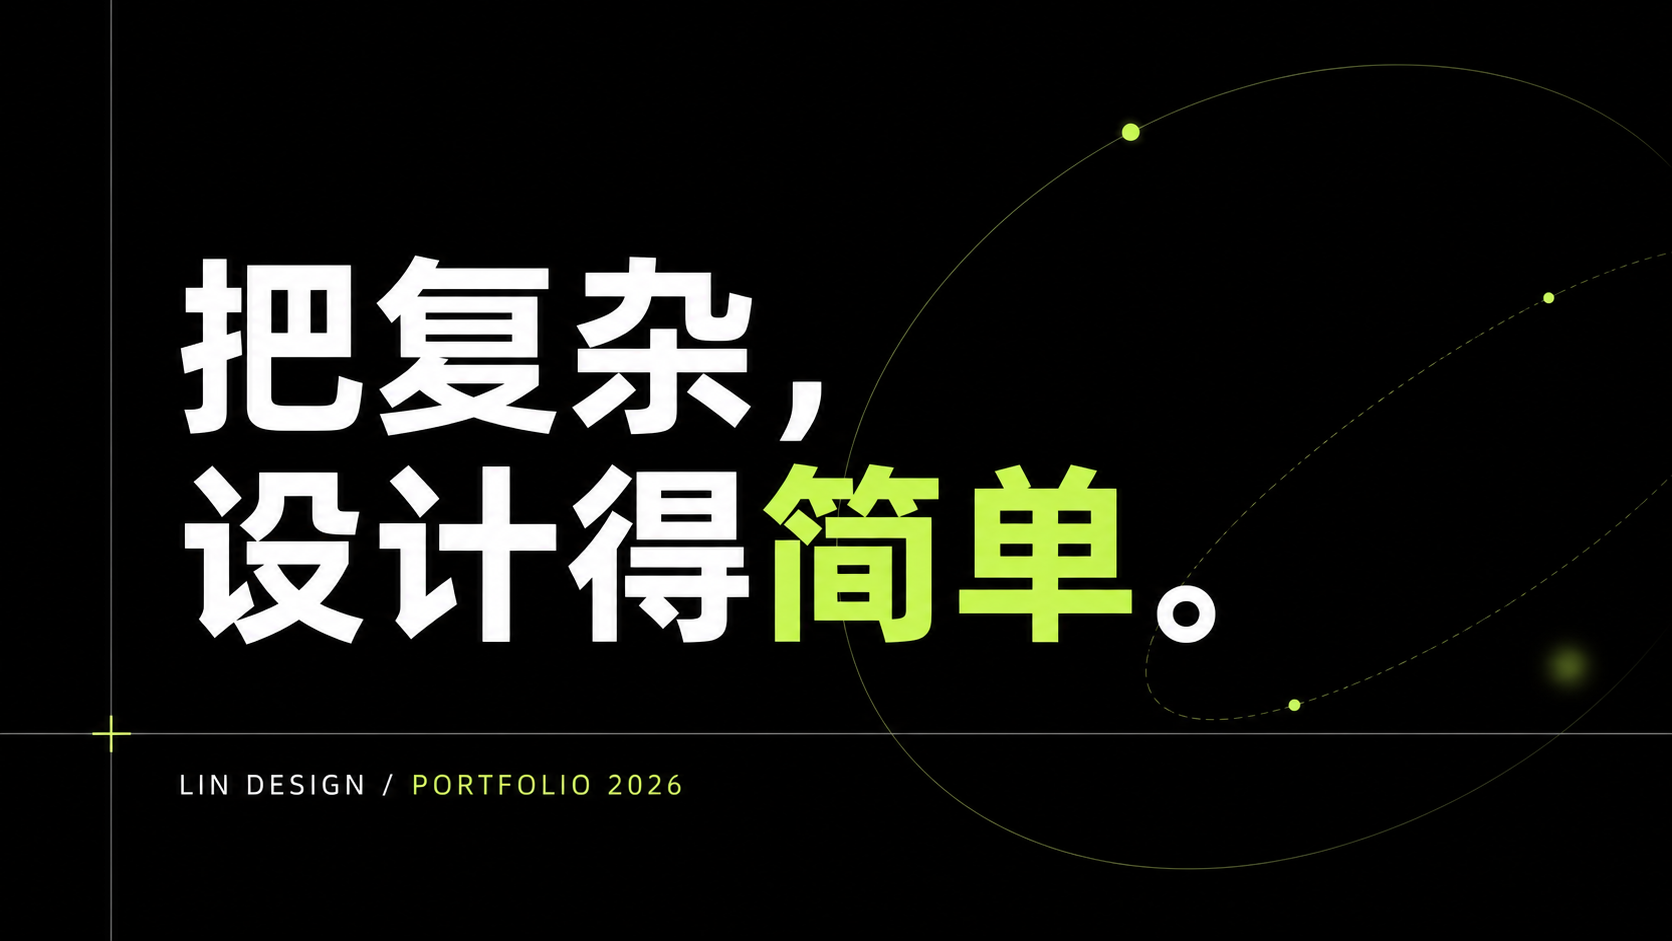
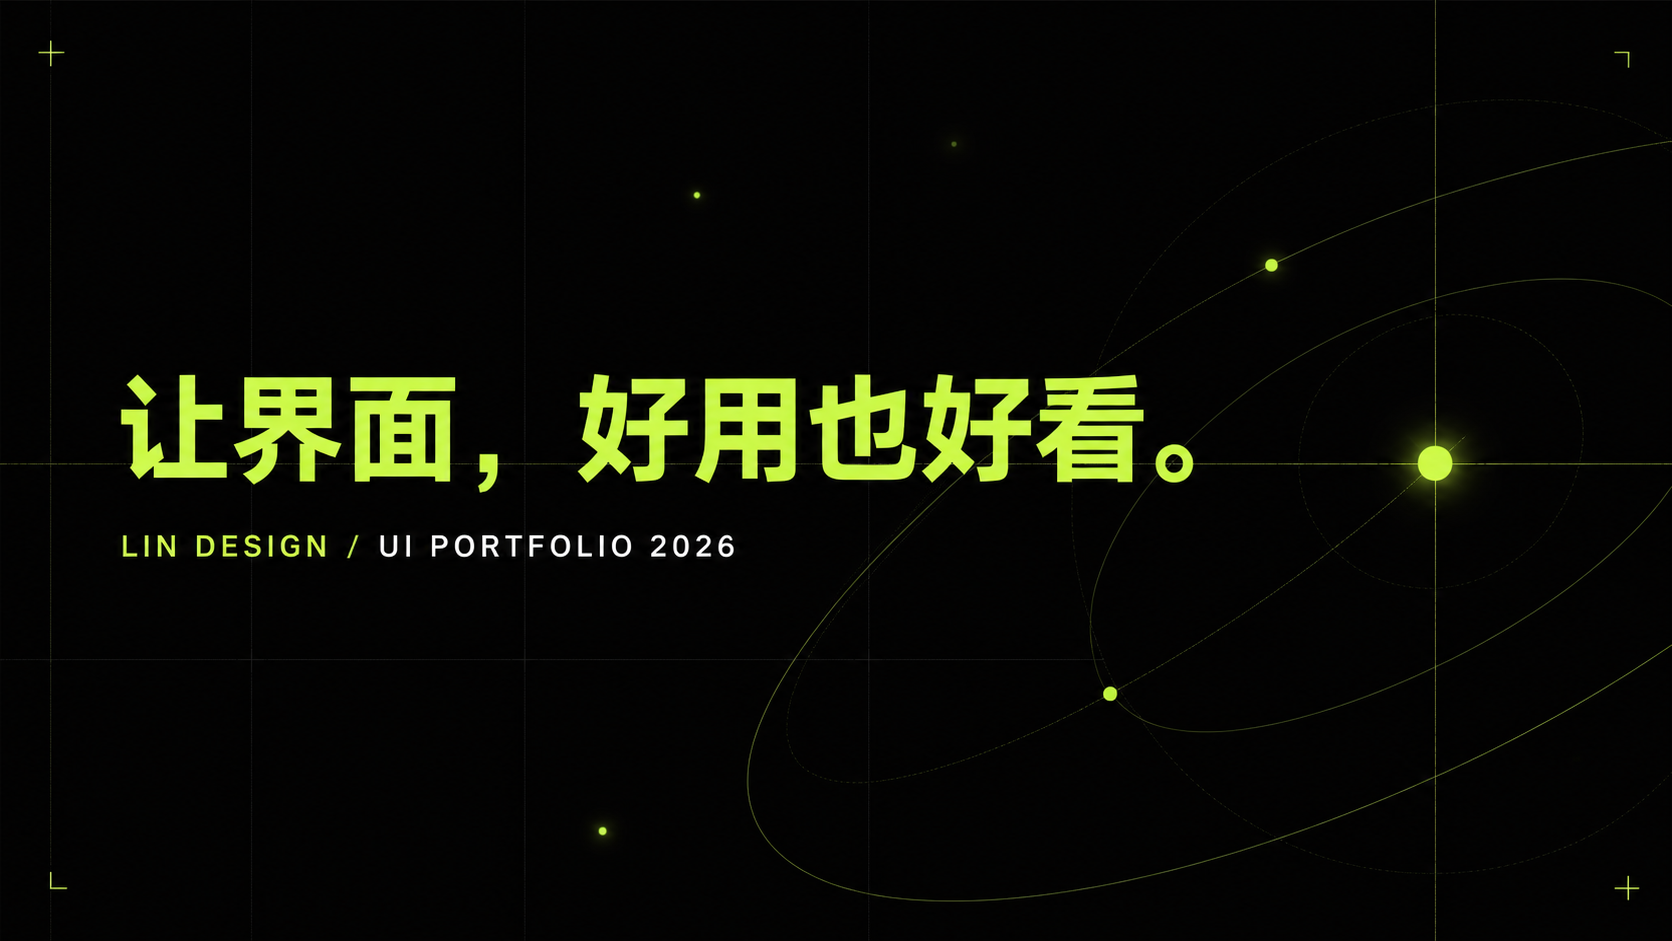
Refine portfolio for UI design role

diff --git a/app/page.tsx b/app/page.tsx
@@ -127,9 +127,9 @@ function ParticleField() {
 }
 
 const projects = [
-  { id: '01', title: 'YOUNG SU', type: '品牌视觉 · 交互体验', year: '2026', className: 'acid' },
-  { id: '02', title: 'MOTION / 08', type: 'AIGC 影像 · 动态设计', year: '2026', className: 'violet' },
-  { id: '03', title: 'NORTH LAB', type: '数字产品 · 设计系统', year: '2025', className: 'silver' },
+  { id: '01', title: 'YOUNG SU', type: '产品界面 · 交互体验', year: '2026', className: 'acid' },
+  { id: '02', title: 'MOTION / 08', type: '活动海报 · 视觉延展', year: '2026', className: 'violet' },
+  { id: '03', title: 'NORTH LAB', type: 'UI 组件 · 设计规范', year: '2025', className: 'silver' },
 ];
 
 export default function Home() {
@@ -157,19 +157,19 @@ export default function Home() {
 
       <section className="hero" id="top">
         <div className="hero-meta reveal">
-          <span>视觉 / 产品设计师</span>
+          <span>UI 界面设计师</span>
           <span>中国 · 成都</span>
         </div>
 
-        <h1 className="hero-title" aria-label="把复杂，设计得简单。">
-          <span className="title-line">把复杂，</span>
-          <span className="title-line offset">设计得<span className="outline">简单</span>。</span>
+        <h1 className="hero-title" aria-label="让界面，好用也好看。">
+          <span className="title-line">让界面，</span>
+          <span className="title-line offset"><span className="outline">好用</span>也好看。</span>
         </h1>
 
         <div className="hero-footer reveal">
-          <p>专注品牌、数字产品与动态视觉，<br />在逻辑与感受之间寻找恰好的平衡。</p>
+          <p>专注 UI 界面与交互体验，<br />也为公司活动提供海报等视觉设计支持。</p>
           <a className="round-link" href="#work" aria-label="查看精选项目"><span>↓</span></a>
-          <span className="availability"><i /> AVAILABLE FOR SELECTED PROJECTS</span>
+          <span className="availability"><i /> UI DESIGN · VISUAL SUPPORT</span>
         </div>
       </section>
 
@@ -204,14 +204,14 @@ export default function Home() {
           <span>方法与态度</span>
         </div>
         <div className="about-grid">
-          <p className="about-lead">我相信真正好的设计，<br />看起来应该<span>毫不费力。</span></p>
+          <p className="about-lead">我相信好的 UI，<br />应该让体验<span>清晰自然。</span></p>
           <div className="about-copy">
-            <p>从问题本身出发，以清晰的策略、克制的视觉和细腻的动态，创造兼具辨识度与可用性的体验。</p>
+            <p>我从用户需求与业务目标出发，梳理信息层级和操作路径，并通过一致的视觉语言，让界面兼顾易用性与品质感。工作期间，我也参与公司活动海报设计，将界面设计中的秩序与品牌表达延展到视觉传播中。</p>
             <div className="service-list">
-              <span>01 品牌视觉</span>
-              <span>02 UI / UX</span>
-              <span>03 动态设计</span>
-              <span>04 AIGC 创意</span>
+              <span>01 UI 界面设计</span>
+              <span>02 交互体验</span>
+              <span>03 组件与规范</span>
+              <span>04 活动视觉支持</span>
             </div>
           </div>
         </div>

diff --git a/app/layout.tsx b/app/layout.tsx
@@ -13,19 +13,19 @@ const geistMono = Geist_Mono({
 });
 
 export const metadata: Metadata = {
-  title: 'LIN DESIGN — 视觉与产品设计作品集',
-  description: '专注品牌、数字产品与动态视觉，在逻辑与感受之间寻找恰好的平衡。',
+  title: 'LIN DESIGN — UI 界面设计作品集',
+  description: '专注 UI 界面与交互体验，也为公司活动提供海报等视觉设计支持。',
   openGraph: {
-    title: 'LIN DESIGN — 视觉与产品设计作品集',
-    description: '把复杂，设计得简单。品牌、数字产品与动态视觉作品集。',
+    title: 'LIN DESIGN — UI 界面设计作品集',
+    description: '让界面，好用也好看。UI 界面、交互体验与活动海报作品集。',
     type: 'website',
     locale: 'zh_CN',
     images: [{ url: '/og.png', width: 1792, height: 1005, alt: '把复杂，设计得简单。' }],
   },
   twitter: {
     card: 'summary_large_image',
-    title: 'LIN DESIGN — 视觉与产品设计作品集',
-    description: '把复杂，设计得简单。品牌、数字产品与动态视觉作品集。',
+    title: 'LIN DESIGN — UI 界面设计作品集',
+    description: '让界面，好用也好看。UI 界面、交互体验与活动海报作品集。',
     images: ['/og.png'],
   },
 };
